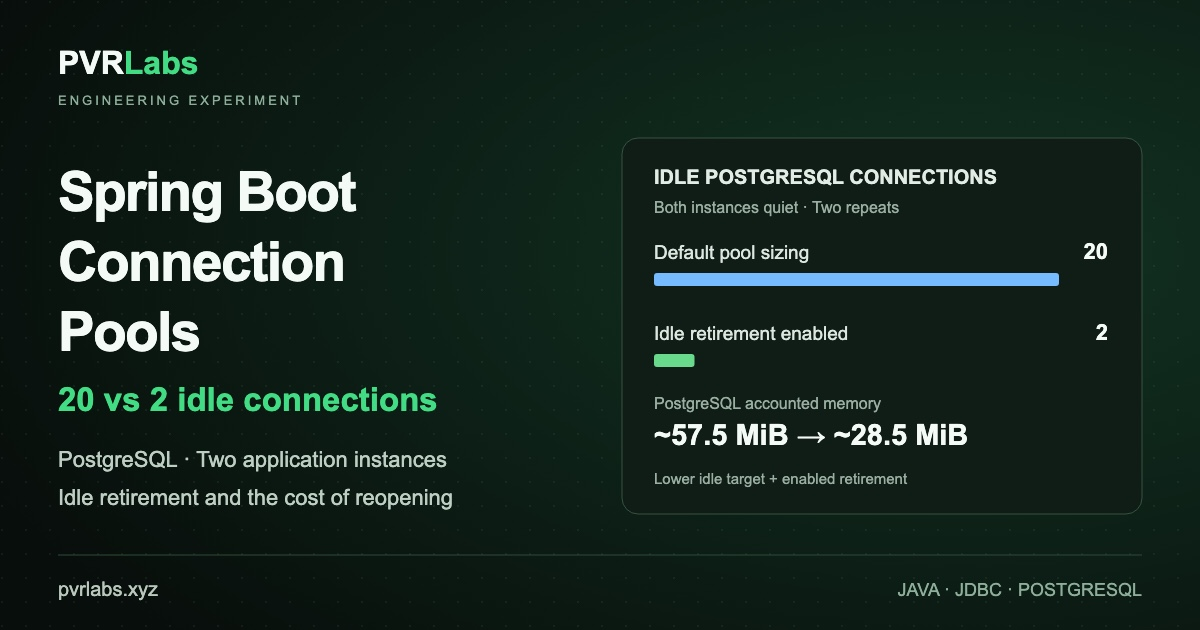
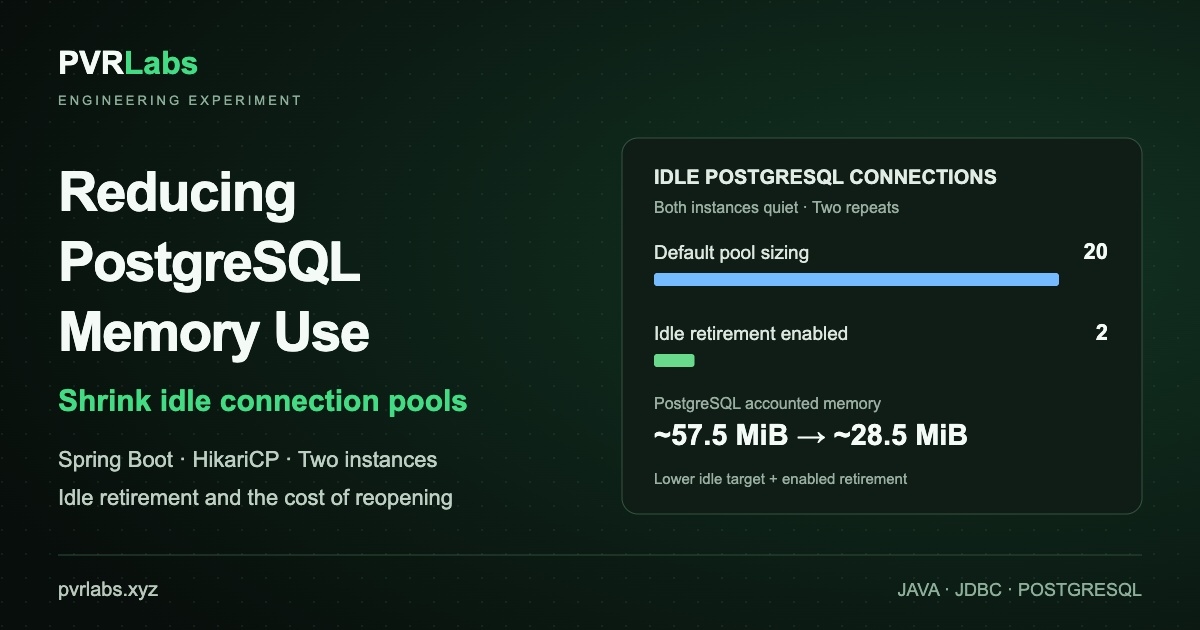
Reframe idle connection pool article around PostgreSQL memory savings

Changed region(s): [[0.0308, 0.2714, 0.3083, 0.573], [0.0308, 0.6032, 0.4008, 0.6635], [0.0308, 0.6937, 0.37, 0.754]]

diff --git a/articles/spring-boot-jdbc-pool-reclaim.html b/articles/spring-boot-jdbc-pool-reclaim.html
@@ -3,28 +3,28 @@
 <head>
     <meta charset="UTF-8">
     <meta name="viewport" content="width=device-width, initial-scale=1.0">
-    <title>Spring Boot Connection Pools: 20 vs 2 Idle PostgreSQL Connections | PVR Labs</title>
+    <title>Reducing PostgreSQL Memory Use by Shrinking Idle Connection Pools | PVR Labs</title>
     <meta name="description" content="Two Spring Boot pools released 18 idle connections. PostgreSQL cgroup memory was approximately 29 MiB lower, with a measured cost when traffic returned.">
     <meta name="author" content="Ted Kupolov">
     <link rel="canonical" href="https://pvrlabs.xyz/articles/spring-boot-jdbc-pool-reclaim.html">
     <meta property="og:type" content="article">
     <meta property="og:url" content="https://pvrlabs.xyz/articles/spring-boot-jdbc-pool-reclaim.html">
-    <meta property="og:title" content="Spring Boot Connection Pools: 20 vs 2 Idle PostgreSQL Connections">
+    <meta property="og:title" content="Reducing PostgreSQL Memory Use by Shrinking Idle Connection Pools">
     <meta property="og:site_name" content="PVR Labs">
     <meta property="og:description" content="Two Spring Boot pools released 18 idle connections. PostgreSQL cgroup memory was approximately 29 MiB lower, with a measured cost when traffic returned.">
     <meta property="article:published_time" content="2026-10-09T00:00:00-07:00">
-    <meta property="article:modified_time" content="2026-10-16T00:00:00-07:00">
+    <meta property="article:modified_time" content="2026-10-17T00:00:00-07:00">
     <meta property="article:author" content="Ted Kupolov">
-    <meta property="og:image" content="https://pvrlabs.xyz/articles/img/spring-boot-jdbc-pool-reclaim/cover.jpg">
+    <meta property="og:image" content="https://pvrlabs.xyz/articles/img/spring-boot-jdbc-pool-reclaim/cover.jpg?v=20261017">
     <meta property="og:image:type" content="image/jpeg">
     <meta property="og:image:width" content="1200">
     <meta property="og:image:height" content="630">
     <meta property="og:image:alt" content="20 versus 2 idle PostgreSQL connections and their accounted database memory">
     <meta name="twitter:card" content="summary_large_image">
-    <meta name="twitter:title" content="Spring Boot Connection Pools: 20 vs 2 Idle PostgreSQL Connections">
+    <meta name="twitter:title" content="Reducing PostgreSQL Memory Use by Shrinking Idle Connection Pools">
     <meta name="twitter:description" content="Two Spring Boot pools released 18 idle connections. PostgreSQL cgroup memory was approximately 29 MiB lower, with a measured cost when traffic returned.">
-    <meta name="twitter:image" content="https://pvrlabs.xyz/articles/img/spring-boot-jdbc-pool-reclaim/cover.jpg">
-    <meta name="twitter:image:alt" content="Spring Boot Connection Pools: 20 vs 2 Idle PostgreSQL Connections">
+    <meta name="twitter:image" content="https://pvrlabs.xyz/articles/img/spring-boot-jdbc-pool-reclaim/cover.jpg?v=20261017">
+    <meta name="twitter:image:alt" content="Reducing PostgreSQL Memory Use by Shrinking Idle Connection Pools">
     <link rel="preconnect" href="https://fonts.googleapis.com">
     <link rel="preconnect" href="https://fonts.gstatic.com" crossorigin>
     <link rel="preload" href="https://fonts.googleapis.com/css2?family=Orbitron:wght@700&family=Sora:wght@600&family=Inter:wght@400;500;600&display=swap" as="style" onload="this.onload=null;this.rel='stylesheet'">
@@ -54,8 +54,10 @@
         }
 
         .table-scroll table { min-width: 34rem; }
-        .method-note { padding: 1rem; background: var(--bg-light); border-left: 4px solid var(--primary-green); }
-            .article-body figure img { width: 100%; height: auto; }
+        .method-note { margin-bottom: 1.5rem; padding: 1rem; background: var(--bg-light); border-left: 4px solid var(--primary-green); }
+        .method-note summary { min-height: 44px; box-sizing: border-box; padding-block: .65rem; cursor: pointer; font-weight: 600; }
+        .method-note[open] summary { margin-bottom: 1rem; }
+        .article-body figure img { width: 100%; height: auto; }
         .article-body figure a { display: block; min-height: 44px; }
         .article-body td, .article-body th { overflow-wrap: anywhere; }
         @media (max-width: 992px) { .article-page { max-width: 94%; } }
@@ -75,26 +77,33 @@
     <nav class="article-product-nav" aria-label="Article navigation">
         <a href="/articles/" class="article-product-nav__link">&larr; Back to Articles</a>
     </nav>
-    <h1>Spring Boot Connection Pools: 20 vs 2 Idle PostgreSQL Connections</h1>
-    <div class="article-meta">by <a href="https://github.com/ejboy" target="_blank" rel="noopener noreferrer">Ted Kupolov</a> · <time datetime="2026-10-09">October 9, 2026</time> · Updated <time datetime="2026-10-16">October 16, 2026</time></div>
+    <h1>Reducing PostgreSQL Memory Use by Shrinking Idle Connection Pools</h1>
+    <div class="article-meta">by <a href="https://github.com/ejboy" target="_blank" rel="noopener noreferrer">Ted Kupolov</a> · <time datetime="2026-10-09">October 9, 2026</time> · Updated <time datetime="2026-10-17">October 17, 2026</time></div>
     <div class="article-body" data-lightbox-scope>
-<p>Two quiet Spring Boot instances held <strong>20 PostgreSQL connections</strong> with Hikari’s default pool sizing. Allowing excess idle connections to retire brought that total to <strong>2</strong>, associated with approximately <strong>29 MiB lower PostgreSQL cgroup memory</strong>.</p>
-<p>I left HikariCP’s <code>minimumIdle</code> and <code>maximumPoolSize</code> unset. Both resolved to <strong>10</strong>: Hikari’s default idle target equals its maximum, so <code>idleTimeout</code> has no connections above the target to retire.</p>
-<p>This was a deliberately small experiment to isolate the effect. At my previous company, many application VMs connected to a shared PostgreSQL database, and shrinking idle pools across those instances produced substantial aggregate memory savings.</p>
-<p>As an illustrative example, 30 instances retaining 32 connections each means 960 persistent connections. If idle retirement reduces the average to 16 per instance, that leaves 480 fewer connections for PostgreSQL to maintain. The experiment below measures the effect with two instances; it does not establish a general memory saving per connection.</p>
+<p>At my previous company, many application VMs connected to a shared PostgreSQL database. Shrinking idle connection pools across those instances produced substantial aggregate memory savings. I wanted to revisit that tradeoff in a small, reproducible setup: how much database memory would idle retirement release, and what would it cost when traffic returned?</p>
+<p>HikariCP’s fixed-size default is <a href="https://github.com/brettwooldridge/HikariCP#frequently-used">documented behavior</a>. This experiment measures its database-side footprint and the cost of rebuilding capacity. Two quiet Spring Boot instances retained <strong>20 PostgreSQL connections</strong> with default pool sizing. Allowing excess idle connections to retire reduced that to <strong>2</strong>, associated with approximately <strong>29 MiB lower PostgreSQL cgroup memory</strong>. Median connection-acquisition time when traffic returned rose from <strong>under 3 ms to about 200 ms</strong> in this test.</p>
+<p>The reason to care grows with the number of application instances. As an illustrative example, 30 instances retaining 32 connections each means 960 persistent connections. Reducing the average to 16 per instance leaves PostgreSQL with 480 fewer connections to maintain. The two-instance experiment below does not establish a general memory saving per connection.</p>
 <p>The <a href="https://github.com/PVRLabs/experiments/tree/main/java/jdbc-pool-reclaim">experiment record</a> includes the source, reproduction instructions, screenshots, and recorded data. This article uses Spring Boot 4.1.1, HikariCP 7.0.2, and PostgreSQL 16.15 on Java 25.</p>
 <h2>Testing the quiet period</h2>
 <p>I ran two copies of a tiny Spring Boot JDBC application using HikariCP against PostgreSQL. Instance A received a short burst; B started before A finished and stayed busy longer. That created three useful observations: both pools under demand, A idle while B remained busy, and both idle before the next burst.</p>
 <p>Each configuration ran twice in mirrored order, with fresh application processes. An independent sampler recorded per-instance PostgreSQL connections and Hikari total, active and idle counts. The applications and database shared a two-vCPU, 1 GiB Linux VM with no swap. This kept the setup compact; it was not a distributed application benchmark.</p>
-<p>Three Hikari settings describe the comparison:</p>
-<ul><li><code>maximumPoolSize</code> sets the pool’s connection ceiling: ten in this test.</li><li><code>minimumIdle</code> sets the idle connection target. The reclaim profile used one, allowing the pool to retain less capacity between bursts.</li><li><code>idleTimeout</code> retires idle connections above <code>minimumIdle</code>. Hikari’s documented default is 10 minutes, and it does nothing while <code>minimumIdle</code> equals <code>maximumPoolSize</code>. The reclaim profile used ten seconds to compress the lifecycle into a short experiment. That duration is <strong>not production tuning advice</strong>. The other two profiles set the timeout to zero so pool sizing could be compared on its own.</li></ul>
+<p>I left <code>minimumIdle</code> and <code>maximumPoolSize</code> unset in the default-sizing profile. Both resolved to ten. Three settings describe the comparison:</p>
+<ul>
+<li><code>maximumPoolSize</code> sets the connection ceiling: ten per instance here.</li>
+<li><code>minimumIdle</code> sets the idle connection target. Hikari defaults it to the maximum; the two other profiles used one.</li>
+<li><code>idleTimeout</code> retires idle connections above that target. It is enabled by default, but a fixed-size pool has no excess idle connections to retire. The reclaim profile used ten seconds to fit retirement into the recording; that duration is <strong>not production tuning advice</strong>.</li>
+</ul>
 <div class="table-scroll" role="region" tabindex="0" aria-label="Experiment results"><table><thead><tr><th scope="col">Profile</th><th scope="col">minimumIdle</th><th scope="col">maximumPoolSize</th><th scope="col">idleTimeout</th></tr></thead><tbody><tr><td>Default sizing</td><td>unset → 10</td><td>unset → 10</td><td>disabled</td></tr><tr><td>Reclaim</td><td>1</td><td>10</td><td>10 seconds</td></tr><tr><td>No-reclaim mechanism control</td><td>1</td><td>10</td><td>disabled</td></tr></tbody></table></div>
 <p>Lifetime and keepalive were deliberately disabled for all profiles. This compares default <strong>pool sizing</strong>, not every untouched Hikari default. Each workload request intentionally held a database connection for one second, making simultaneous occupancy visible.</p>
 <figure><a class="screenshot-link" href="/articles/img/spring-boot-jdbc-pool-reclaim/workload.svg" aria-label="Open workload timeline at full size"><img src="/articles/img/spring-boot-jdbc-pool-reclaim/workload.svg" width="1100" height="550" alt="A receives traffic at 0–16 seconds and B at 12–68 seconds. Both are then quiet. Connections and memory are measured at 118–128 seconds, before ten new requests reach A at 128 seconds and B at 130 seconds." loading="lazy" decoding="async"></a><figcaption>Colored bars show incoming traffic for each app. After both bursts end, the pools have time to retire idle connections. The green window measures what they keep; only afterward do new requests test reopening. Tap the chart to enlarge.</figcaption></figure>
 <h2>Twenty connections became two</h2>
 <p>Both pools reached ten connections in every scenario, with actual elevated overlap verified by the runner. Hikari totals agreed with PostgreSQL counts.</p>
 <div class="table-scroll" role="region" tabindex="0" aria-label="Experiment results"><table><thead><tr><th scope="col">Configuration</th><th scope="col">Peak aggregate</th><th scope="col">A idle, B busy: A / B</th><th scope="col">Both quiet: A / B</th><th scope="col">Quiet aggregate</th></tr></thead><tbody><tr><td>Default sizing, both repeats</td><td>20</td><td>10 / 10</td><td>10 / 10</td><td>20</td></tr><tr><td>Reclaim, both repeats</td><td>20</td><td>1 / 10</td><td>1 / 1</td><td>2</td></tr><tr><td>No-reclaim control, both repeats</td><td>20</td><td>10 / 10</td><td>10 / 10</td><td>20</td></tr></tbody></table></div>
-<p>Connection counts are medians over ten one-second samples per scenario; peaks are observed maxima. PostgreSQL cgroup memory was requested every fifth sample, so each of these 10-second windows has two cgroup readings, and the memory medians are of those two. Reclaim released 18 of the 20 connections during the quiet window, while retaining the ability to grow to ten per instance.</p>
+<p>Reclaim released 18 of the 20 connections during the quiet window, while retaining the ability to grow to ten per instance.</p>
+<details class="method-note">
+<summary>How the measurement windows were sampled</summary>
+<p>Connection counts are medians over ten one-second samples per scenario; peaks are observed maxima. PostgreSQL cgroup memory was requested every fifth sample, giving two readings per ten-second window. The memory medians are of those two readings.</p>
+</details>
 <p>PostgreSQL’s accounted memory moved with the connection count. Cgroup memory is the cluster’s charged memory, including cache, on this PostgreSQL 16 server (<code>shared_buffers</code> 128 MiB).</p>
 <div class="table-scroll" role="region" tabindex="0" aria-label="Experiment results"><table><thead><tr><th scope="col">State</th><th scope="col">Connections</th><th scope="col">PostgreSQL cgroup memory</th></tr></thead><tbody><tr><td>Reclaim, both quiet</td><td>2</td><td>28.4–28.5 MiB</td></tr><tr><td>Reclaim, A idle and B still busy</td><td>11</td><td>about 42.9 MiB</td></tr><tr><td>Default or no-reclaim, both quiet</td><td>20</td><td>57.4–57.9 MiB</td></tr><tr><td>Reclaim, after the revisit reopened both pools</td><td>20</td><td>about 57.1 MiB</td></tr></tbody></table></div>
 <figure><a class="screenshot-link" href="/articles/img/spring-boot-jdbc-pool-reclaim/postgres-memory.svg" aria-label="Open chart at full size"><img src="/articles/img/spring-boot-jdbc-pool-reclaim/postgres-memory.svg" alt="Green shows PostgreSQL memory while both apps are quiet. Blue shows memory after ten new requests per app test whether the pools can rebuild capacity. The reclaim pools reopen connections, and their PostgreSQL memory returns to about 57 MiB. Each bar is the median of two readings in a ten-second window; cgroup memory includes cache." loading="lazy" decoding="async"></a><figcaption>Green shows PostgreSQL memory while both apps are quiet. Blue shows memory after ten new requests per app test whether the pools can rebuild capacity. The reclaim pools reopen connections, and their PostgreSQL memory returns to about 57 MiB. Each bar is the median of two readings in a ten-second window; cgroup memory includes cache.</figcaption></figure>
@@ -104,16 +113,15 @@
 <h2>Starting small did not guarantee shrinking</h2>
 <p>The no-reclaim profile isolates the mechanism: it started at one connection per instance, allowed each pool to grow to ten, and disabled idle retirement.</p>
 <p>After traffic stopped, it retained ten per instance and about 57 MiB of PostgreSQL cgroup memory. A lower <code>minimumIdle</code> did not release the connections opened during the burst while <code>idleTimeout</code> was off. Retirement is what released that capacity, and the PostgreSQL memory went with it.</p>
-<p>The reclaim pools also started at one and grew to ten. Their difference was what happened afterward: idle capacity above the target could retire.</p>
 <h2>Rebuilding capacity took time</h2>
 <p>Reclamation was not free. To test whether reclaimed capacity could be restored when traffic returned, each instance later received ten simultaneous requests. This return of traffic is the revisit. The reclaim pools reopened successfully, but median connection-acquisition times were approximately <strong>194–207 ms</strong>, compared with <strong>under 3 ms</strong> when connections had been retained.</p>
-<p>Median total revisit request time was approximately 1.44–1.46 seconds with reclaim, versus 1.02–1.03 seconds with retained pools. Those totals include the common intentional one-second connection hold. Each request waited for all ten connections to be acquired before running its one-second database operation. The slowest acquisition took about 430 ms, explaining much of the additional request latency.</p>
+<p>Median total revisit request time was approximately 1.44–1.46 seconds with reclaim, versus 1.02–1.03 seconds with retained pools. Those totals include the common intentional one-second connection hold. The test harness deliberately synchronized the ten requests: each acquired one connection, then waited at a barrier until all ten had acquired theirs before starting its one-second database operation. The slowest acquisition took about 430 ms, explaining much of the additional request latency.</p>
 <p>All 2,280 measured requests succeeded. All six scenarios were valid, with zero sampling errors or supporting warnings. After revisits, the pools again held ten connections each, showing successful regrowth after retirement.</p>
 <p>These short synthetic waves show an observed cost of rebuilding pool capacity. They do not establish general production latency.</p>
 <div class="table-scroll" role="region" tabindex="0" aria-label="Revisit latency"><table><thead><tr><th>Scenario</th><th>A acquisition</th><th>B acquisition</th><th>A request</th><th>B request</th></tr></thead><tbody><tr><td>default-1</td><td>1.9 ms</td><td>1.5 ms</td><td>1019.4 ms</td><td>1017.0 ms</td></tr><tr><td>no-reclaim-1</td><td>2.8 ms</td><td>0.9 ms</td><td>1022.6 ms</td><td>1018.7 ms</td></tr><tr><td>reclaim-1</td><td>204.1 ms</td><td>202.4 ms</td><td>1450.7 ms</td><td>1439.3 ms</td></tr><tr><td>reclaim-2</td><td>193.7 ms</td><td>206.8 ms</td><td>1436.7 ms</td><td>1457.1 ms</td></tr><tr><td>no-reclaim-2</td><td>1.3 ms</td><td>0.7 ms</td><td>1022.1 ms</td><td>1018.2 ms</td></tr><tr><td>default-2</td><td>2.2 ms</td><td>0.4 ms</td><td>1025.9 ms</td><td>1030.6 ms</td></tr></tbody></table></div><p>Per-instance medians from ten requests per revisit. Request times include the intentional one-second connection hold.</p>
 <h2>The practical change</h2>
-<p>PostgreSQL has a finite connection limit. This server allowed 100. Two quiet default pools used 20 of those 100 slots while serving nothing, with a larger PostgreSQL footprint. The pools that could retire excess idle connections used 2 slots and about half that PostgreSQL memory, then grew back to 20 when the ten-request wave returned.</p>
-<p>Choose <code>maximumPoolSize</code> from how many database operations must run at once and from PostgreSQL&#x27;s connection capacity. Set <code>minimumIdle</code> to the number of connections worth keeping warm. Leave <code>idleTimeout</code> enabled. Hikari’s <a href="https://github.com/brettwooldridge/HikariCP#frequently-used">configuration documentation</a> gives a 10-minute default. Choose a production timeout based on application demand and the cost of rebuilding connections; this experiment did not validate production timeout settings. <code>minimumIdle=1</code> is the setting that demonstrated the mechanism here. An application with frequent bursts can keep a higher idle target and still stay below the maximum.</p>
+<p>Idle retirement can free connection slots as well as database memory. This PostgreSQL server allowed 100 connections; the two quiet default pools occupied 20 of them.</p>
+<p>Choose <code>maximumPoolSize</code> from how many database operations must run at once and from PostgreSQL&#x27;s connection capacity. Set <code>minimumIdle</code> below that maximum when you want the pool to shrink, choosing how many connections are worth keeping warm. Leave <code>idleTimeout</code> enabled. Hikari’s <a href="https://github.com/brettwooldridge/HikariCP#frequently-used">configuration documentation</a> gives a 10-minute default. Choose a production timeout based on application demand and the cost of rebuilding connections; this experiment did not validate production timeout settings. <code>minimumIdle=1</code> is the setting that demonstrated the mechanism here. An application with frequent bursts can keep a higher idle target and still stay below the maximum.</p>
 <p>Hikari’s fixed-pool recommendation is aimed at spike latency. The tradeoff in this run was lower idle PostgreSQL resource use versus slower connection acquisition after a quiet period.</p>
 <p>PgBouncer can help when PostgreSQL has too many connections, but it adds another component to operate. Its <a href="https://www.pgbouncer.org/features.html">transaction-pooling mode requires care with session-dependent features</a>, such as <code>LISTEN</code> and session-level advisory locks. Modern PgBouncer supports protocol-level prepared statements with <a href="https://www.pgbouncer.org/config.html#max_prepared_statements">a nonzero <code>max_prepared_statements</code> setting</a>. Before introducing a connection pooler, I’d check whether the application is retaining unnecessary idle connections and measure what happens when those connections are allowed to retire. This experiment did not test PgBouncer.</p>
 
@@ -137,6 +145,7 @@
 <p>These measurements describe idle PostgreSQL backends in one small-server setup, rather than a general memory cost per connection. Cgroup accounting includes cache as well as connection-private memory; sessions doing more substantial database work can have a different footprint.</p>
 <h2>Sources</h2>
 <p>The public experiment record includes the application source, pool settings, environment details, and measurements from all six scenarios. The analysis script checks the recorded connection counts, memory readings, and request timings against the summary.</p>
+<p><small>Updated October 17, 2026: revised the title, introduction, and presentation. Experiment results are unchanged.</small></p>
 <p class="experiment-links">
     <a href="https://github.com/PVRLabs/experiments/tree/main/java/jdbc-pool-reclaim" target="_blank" rel="noopener noreferrer">Experiment record</a>
     <a href="https://github.com/PVRLabs/experiments/tree/main/java/jdbc-pool-reclaim/results/run1007a" target="_blank" rel="noopener noreferrer">Recorded data</a>

diff --git a/articles/index.html b/articles/index.html
@@ -195,8 +195,8 @@
 
             <article class="article-entry" data-tags="java spring-boot jdbc postgresql">
                 <div class="article-tags" aria-label="Article topics"><span>Java</span><span>Spring Boot</span><span>PostgreSQL</span></div>
-                <h2><a href="/articles/spring-boot-jdbc-pool-reclaim.html">Spring Boot Connection Pools: 20 vs 2 Idle PostgreSQL Connections</a></h2>
-                <div class="article-meta"><time datetime="2026-10-09">October 9, 2026</time> · Updated <time datetime="2026-10-16">October 16, 2026</time> · <a href="https://github.com/ejboy">Ted Kupolov</a></div>
+                <h2><a href="/articles/spring-boot-jdbc-pool-reclaim.html">Reducing PostgreSQL Memory Use by Shrinking Idle Connection Pools</a></h2>
+                <div class="article-meta"><time datetime="2026-10-09">October 9, 2026</time> · Updated <time datetime="2026-10-17">October 17, 2026</time> · <a href="https://github.com/ejboy">Ted Kupolov</a></div>
                 <p>Two pools released 18 idle connections. PostgreSQL cgroup memory was approximately 29 MiB lower. Recorded timelines show retirement and the latency cost of reopening.</p>
             </article>
 

diff --git a/java-performance/experiments/index.html b/java-performance/experiments/index.html
@@ -48,7 +48,7 @@
             "@type": "ListItem",
             "position": 3,
             "url": "https://pvrlabs.xyz/articles/spring-boot-jdbc-pool-reclaim.html",
-            "name": "Spring Boot Connection Pools: 20 vs 2 Idle PostgreSQL Connections"
+            "name": "Reducing PostgreSQL Memory Use by Shrinking Idle Connection Pools"
           },
           {
             "@type": "ListItem",
@@ -188,7 +188,7 @@
                         <span>JDBC</span>
                         <span>PostgreSQL</span>
                     </div>
-                    <h3><a href="/articles/spring-boot-jdbc-pool-reclaim.html">Spring Boot Connection Pools: 20 vs 2 Idle PostgreSQL Connections</a></h3>
+                    <h3><a href="/articles/spring-boot-jdbc-pool-reclaim.html">Reducing PostgreSQL Memory Use by Shrinking Idle Connection Pools</a></h3>
                     <p class="lab-entry-meta"><time datetime="2026-10-09">October 9, 2026</time></p>
                     <p>Two pools released 18 idle connections. PostgreSQL cgroup memory was approximately 29 MiB lower, with slower connection acquisition when traffic returned.</p>
                     <p class="lab-entry-links">
